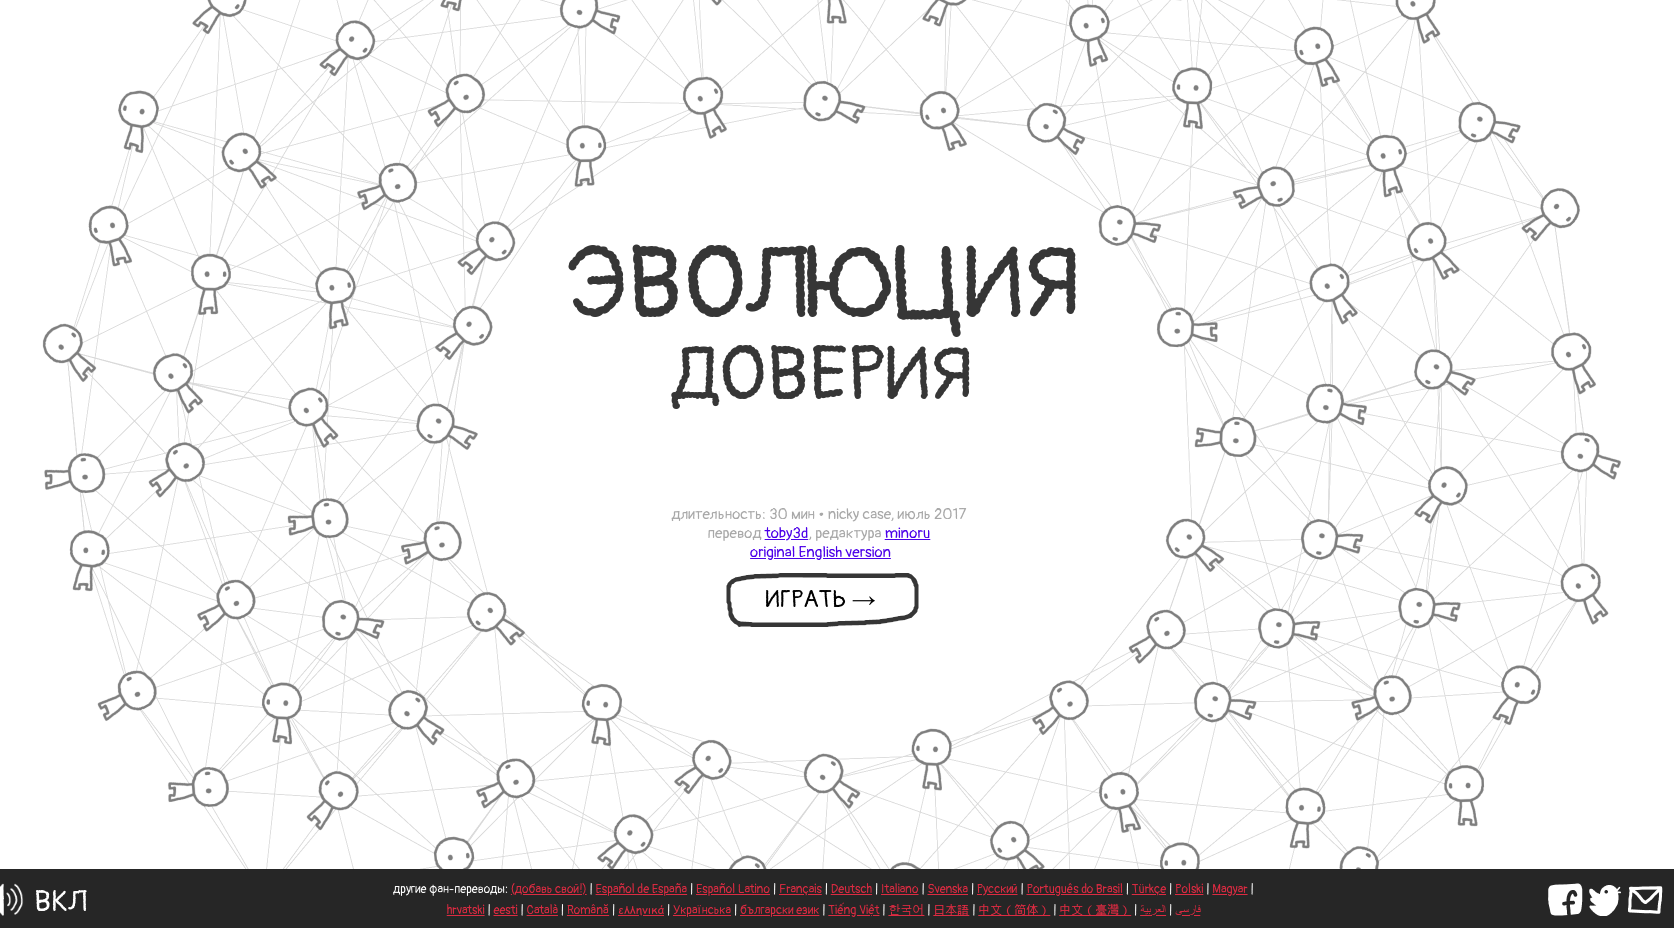
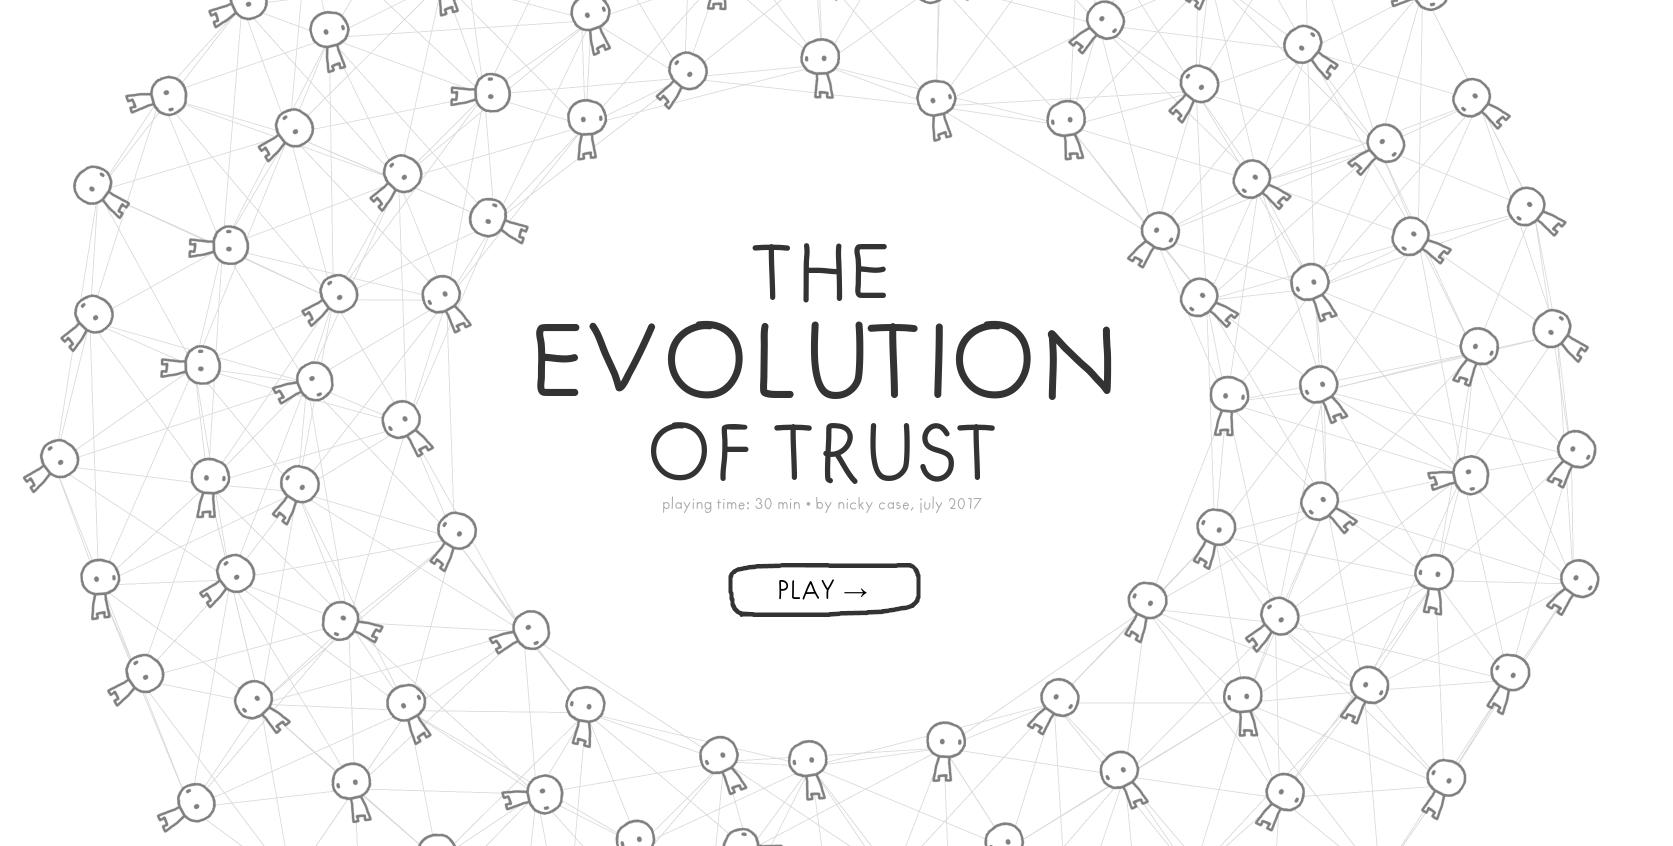
translate to english

diff --git a/_posts/2018-12-09-trust.md b/_posts/2018-12-09-trust.md
@@ -1,10 +1,21 @@
 ---
 layout: post
-title:  Интерактивное руководство о доверии
+title:  Interactive guide about the trust
 date:   2018-12-09 13:30:00 +0300
-categories: [games]
+categories: [phycology]
 ---
 
-Теория игр поможет разобраться в том, зачем и как мы доверяем [друг другу](https://NotDotTeam.github.io/trust/)
+The definition of trust is a very deep and understandable for usual person. Let's briefly review of what [wiki says about the trust](https://en.wikipedia.org/wiki/Trust_(social_science)):
 
-[![trust screenshot](/assets/img/trust/trust.png)](https://NotDotTeam.github.io/trust/){:target="_blank"}
+> In a social context, trust has several connotations.[1] Definitions of trust[2][3] typically refer to a situation characterized by the following aspects: one party (trustor) is willing to rely on the actions of another party (trustee); the situation is directed to the future. In addition, the trustor (voluntarily or forcedly) abandons control over the actions performed by the trustee. As a consequence, the trustor is uncertain about the outcome of the other's actions; they can only develop and evaluate expectations. The uncertainty involves the risk of failure or harm to the trustor if the trustee will not behave as desired.
+> Trust can be attributed to relationships between people. It can be demonstrated that humans have a natural disposition to trust and to judge trustworthiness that can be traced to the neurobiological structure and activity of a human brain. Some studies indicate that trust can be altered e.g. by the application of oxytocin.[4]
+
+Every time when I'm reading this definition I understand nothing and I start asking myself, what I feel and how I fell about this concept. My thoughts about this are flying to the sky :). I read many articles about trusting and etc and they don't give any silver bullet, only some food for the brain. 
+
+A few months ago the time I found one interesting implementation for this topic. You can be a hero and follow different strategies about trusting. At the end of game, you can see a result of selected options. 
+
+The game theory helps us to understand, why and how we trust.
+
+[![trust screenshot](/assets/img/trust/trust.png)](https://ncase.me/trust/){:target="_blank"}
+
+[Russian version >>>>>>](https://NotDotTeam.github.io/trust/){:target="_blank"}
